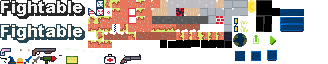
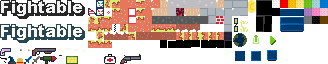
wool

Changed region(s): [[0.8232, 0.0, 1.0, 0.375]]

diff --git a/src/client/audio/begin.c b/src/client/audio/begin.c
@@ -1,14 +1,14 @@
 #define IAUDIO_ENGINE
 #include <fightable/sound_engine.h>
 
-#ifndef TARGET_ANDROID
+#if !defined(TARGET_ANDROID) && !defined(_DISABLE_PORTAUDIO_)
+#pragma message("enabling portaudio")
 #include <portaudio.h>
 #endif
 
 #include <libopenmpt/libopenmpt.h>
 #include <libopenmpt/libopenmpt_stream_callbacks_file.h>
 
-#include <stdio.h>
 #include <stdlib.h>
 #include <string.h>
 
@@ -16,12 +16,21 @@
 
 #include <fightable/time.h>
 
+#if !defined(TARGET_ANDROID) && !defined(_DISABLE_PORTAUDIO_)
+#define USE_PORTAUDIO
+#endif
+
 void _fAudioBegin(struct faudio_engine *engine) {
-    size_t bufsize1 = sizeof(short) * CHANNEL_BUFFER_SIZE * 2;
+    int channels = 1;
+#ifndef TARGET_ANDROID
+    channels = 2;
+#endif
+
+    size_t bufsize1 = sizeof(short) * CHANNEL_BUFFER_SIZE * channels;
 
     engine->buffer = (short *)malloc(bufsize1);
 
-#ifndef TARGET_ANDROID
+#ifdef USE_PORTAUDIO
     PaStream *stream;
 
     PaError result = Pa_Initialize();
@@ -47,12 +56,12 @@ void _fAudioBegin(struct faudio_engine *engine) {
 
     TraceLog(LOG_INFO, "Initialized PortAudio");
 #else
-    AudioStream stream = LoadAudioStream(CHANNEL_SAMPLE_RATE, 16, 1);
+    AudioStream stream = LoadAudioStream(CHANNEL_SAMPLE_RATE, 16, channels);
     PlayAudioStream(stream);
 
     engine->stream = &stream;
 
-    TraceLog(LOG_INFO, "Initialized audio stream");
+    TraceLog(LOG_INFO, "Initialized audio stream (PortAudio is not available)");
 #endif
 
     engine->ready = 1;
@@ -60,6 +69,10 @@ void _fAudioBegin(struct faudio_engine *engine) {
     short *merge_buffer[2] = {engine->buffer, engine->buffer + CHANNEL_BUFFER_SIZE};
 
     while (1) {
+#if !defined(TARGET_ANDROID) && defined(_DISABLE_PORTAUDIO_)
+        while (!IsAudioStreamProcessed(stream)) {}
+#endif
+
         if (engine->should_stop) {
             // printf("1\n");
             break;
@@ -118,7 +131,7 @@ void _fAudioBegin(struct faudio_engine *engine) {
             continue;
         }
 
-#ifndef TARGET_ANDROID
+#ifdef USE_PORTAUDIO
         result = Pa_WriteStream(stream, merge_buffer, count);
         if (result != paNoError) {
             TraceLog(LOG_ERROR, "Portaudio failed to write stream: %d, %s", (int)result, Pa_GetErrorText(result));
@@ -126,13 +139,17 @@ void _fAudioBegin(struct faudio_engine *engine) {
             continue;
         }
 #else
+#ifdef TARGET_ANDROID
         UpdateAudioStream(stream, merge_buffer[0], count);
+#else
+        UpdateAudioStream(stream, merge_buffer[0], count * channels);
+#endif
 #endif
     }
 
     TraceLog(LOG_INFO, "Closing sound engine");
 
-#ifndef TARGET_ANDROID
+#ifdef USE_PORTAUDIO
     Pa_StopStream(stream);
     Pa_CloseStream(stream);
     Pa_Terminate();

diff --git a/src/client/block/id.c b/src/client/block/id.c
@@ -109,12 +109,28 @@ static const struct fblock __blocks[] = {
     {TSET(25, 5,Line2)},                        // 103
     {TSET(26, 5,Line2)},                        // 104
     {TSET(27, 5,Line2)},                        // 105
-    {TSET(27, 2,Brick)}                         // 106
+    {TSET(27, 2,Brick)},                        // 106
+    {TSET(34, 0,Wool)},                         // 107
+    {TSET(35, 0,Wool)},                         // 108
+    {TSET(36, 0,Wool)},                         // 109
+    {TSET(37, 0,Wool)},                         // 110
+    {TSET(38, 0,Wool)},                         // 111
+    {TSET(39, 0,Wool)},                         // 112
+    {TSET(40, 0,Wool)},                         // 113
+    {TSET(38, 1,Wool)},                         // 114
+    {TSET(39, 1,Wool)},                         // 115
+    {TSET(40, 2,Wool)},                         // 116
+    {TSET(38, 2,Wool)},                         // 117
+    {TSET(39, 2,Wool)},                         // 118
+    {TSET(40, 2,Wool)},                         // 119
+    {TSET(38, 3,Wool)},                         // 120
+    {TSET(39, 3,Wool)},                         // 121
+    {TSET(40, 3,Wool)},                         // 122
 };
 
 struct fblock _fBlockFromId(unsigned short id) {
     const unsigned short blocks_total = sizeof(__blocks) / sizeof(struct fblock);
-    
+
     if (id >= blocks_total) {
         struct fblock empty_block = {0};
 
@@ -152,5 +168,5 @@ struct fblock_listing _fBlockGetAvailable() {
     l.blocks = __blocks;
     l.total = sizeof(__blocks) / sizeof(struct fblock);
 
-    return l; 
+    return l;
 }

diff --git a/src/mp_rect_test/src/main.cpp b/src/mp_rect_test/src/main.cpp
@@ -411,9 +411,10 @@ void createLocalServer() {
     if (1) printf("* starting tcp server on 0.0.0.0:8000\n");
     
     struct ftcp_server_delegate delegate = {
+        .daemon = nullptr,
 	    .processDisconnect = processSrvDisconnect,
+        .processConnect = processConnect,
 	    .processMessage = processSrvMessage,
-        .processConnect = processConnect
     };
     __server_delegate = delegate;
     

diff --git a/src/client/inc/fightable/sound_engine.h b/src/client/inc/fightable/sound_engine.h
@@ -29,7 +29,7 @@ struct faudio_engine {
     unsigned int _row;
     unsigned int _channels;
 
-#ifdef TARGET_ANDROID
+#if defined(TARGET_ANDROID) || defined (_DISABLE_PORTAUDIO_)
     AudioStream *stream;
 #endif
 
